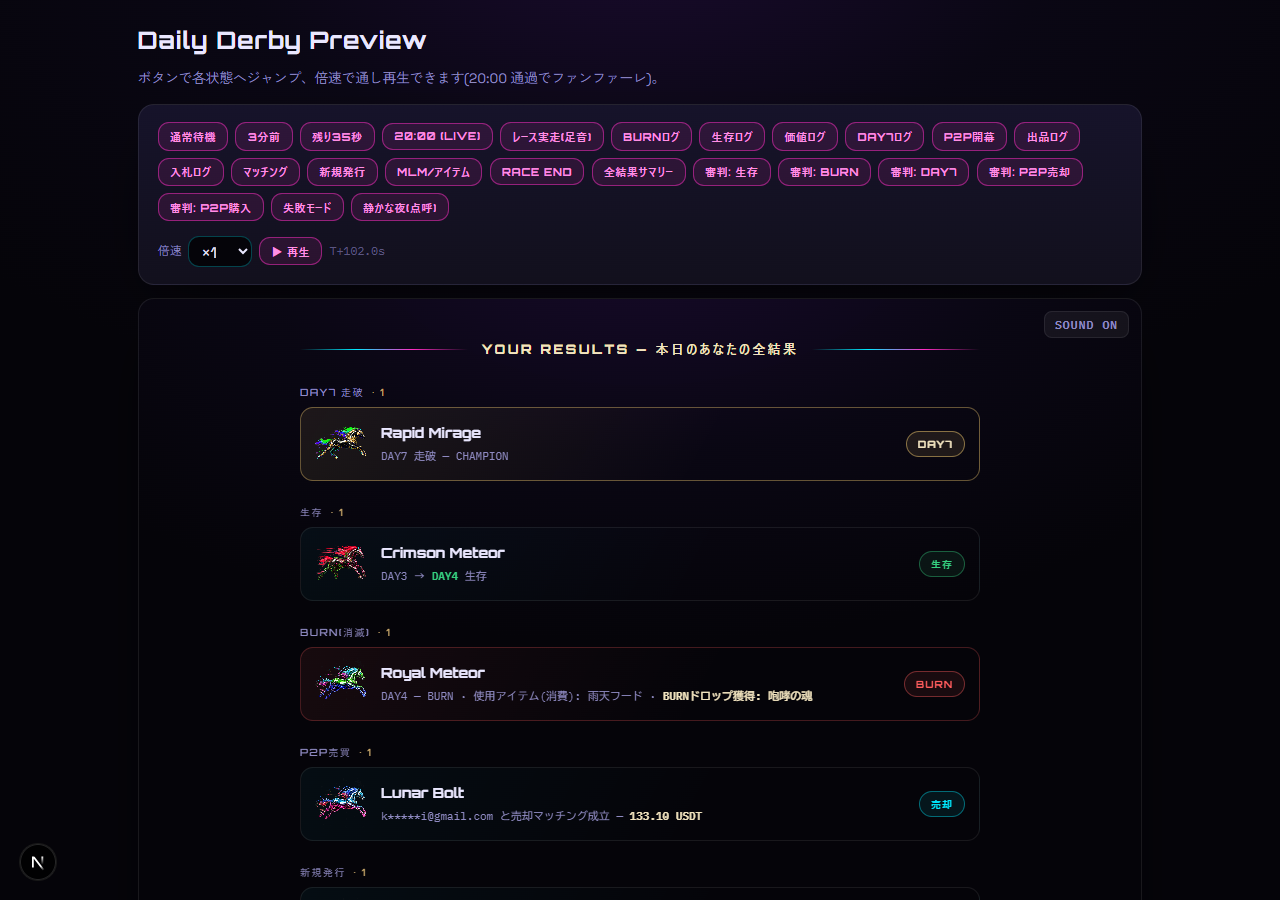
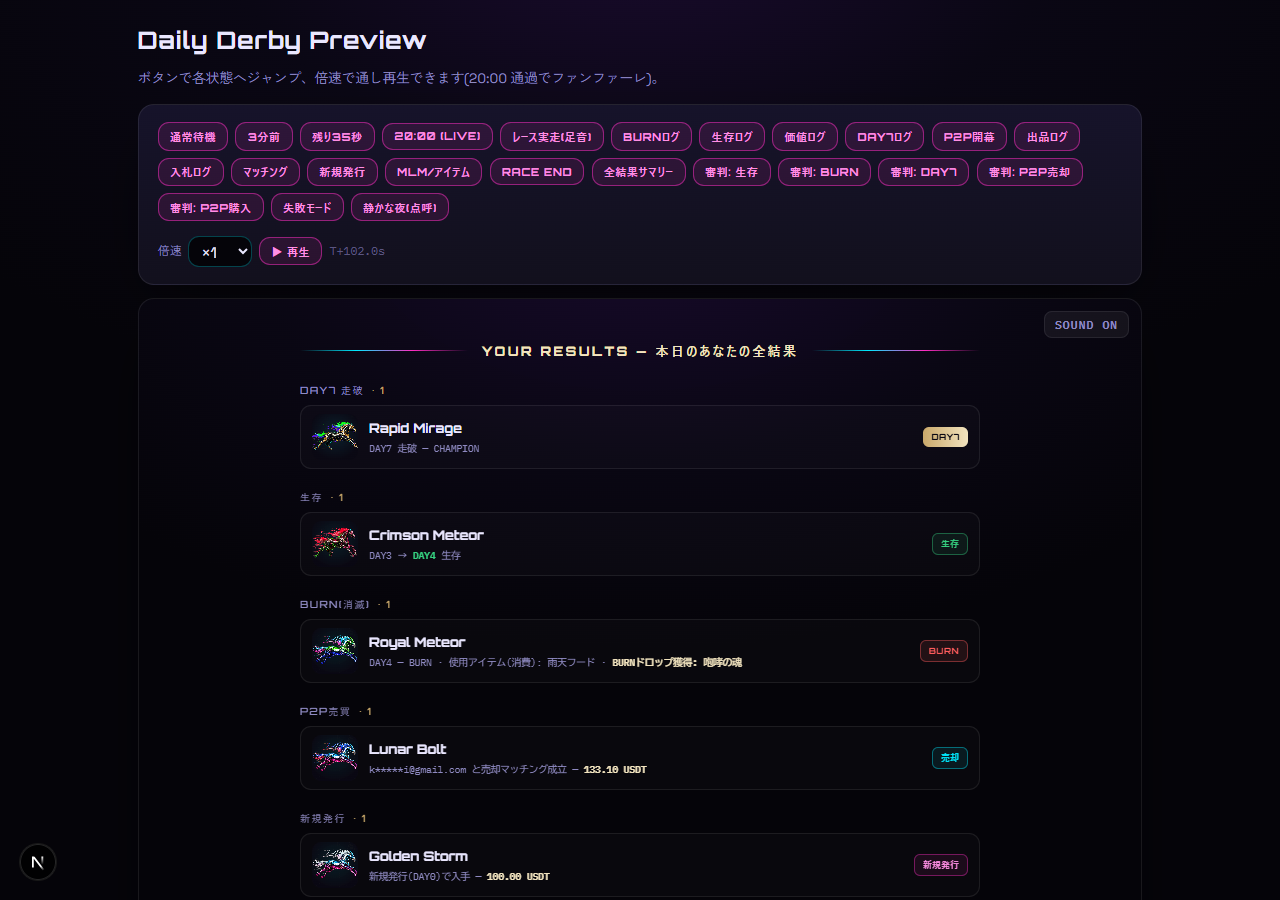
web: race record rows restyled to handoff YOUR RESULTS spec
Match the reference exactly: uniform dense rows (8x11 padding, flat
translucent bg), 46px horse art on a radial backdrop, 8.5px squared
badges, and the DAY7 badge as a filled gold-gradient chip with dark
text. Row tint variants removed (badges carry the color, per
reference). Shared by the show finale and the /races archive.

diff --git a/apps/web/app/races.module.css b/apps/web/app/races.module.css
@@ -132,31 +132,32 @@
 .recNavBtn:disabled { color: var(--faint); border-color: var(--border); background: transparent; cursor: default; }
 .recSelect { font-family: var(--font-display); font-size: 12px; font-weight: 700; color: var(--text);
   border: 1px solid var(--border); border-radius: 10px; padding: 6px 10px; background: var(--panel); }
-.recList { display: flex; flex-direction: column; gap: 9px; }
-.recRow { display: flex; align-items: center; gap: 14px; border: 1px solid var(--border); border-radius: 13px;
-  padding: 10px 14px; background: linear-gradient(120deg, rgba(0, 234, 255, 0.04), transparent 60%); }
-.recBurn { background: linear-gradient(120deg, rgba(255, 92, 92, 0.07), transparent 60%);
-  border-color: rgba(255, 92, 92, 0.25); }
-.recDay7 { background: linear-gradient(120deg, rgba(240, 200, 110, 0.09), transparent 60%);
-  border-color: rgba(240, 200, 110, 0.4); }
-.recArt { width: 52px; height: 52px; border-radius: 12px; flex-shrink: 0; }
+/* 行の様式はハンドオフ(handoff-derby-show の YOUR RESULTS)準拠:
+   一様な行+46pxアート+8.5pxバッジ、DAY7だけ金塗りチップ。 */
+.recList { display: flex; flex-direction: column; gap: 2px; }
+.recRow { display: flex; align-items: center; gap: 11px; border: 1px solid var(--border); border-radius: 11px;
+  padding: 8px 11px; background: rgba(255, 255, 255, 0.015); }
+.recArt { width: 46px; height: 46px; border-radius: 9px; flex-shrink: 0; overflow: hidden;
+  background: radial-gradient(80% 78% at 50% 42%, rgba(0, 234, 255, 0.1), rgba(10, 8, 19, 0.92) 74%); }
 .recBody { flex: 1; min-width: 0; }
-.recName { font-family: var(--font-display); font-weight: 700; font-size: 14px; color: var(--text); }
-.recSub { font-family: var(--font-mono); font-size: 11px; color: var(--muted); margin-top: 3px; line-height: 1.6;
-  overflow-wrap: anywhere; }
+.recName { font-family: var(--font-display); font-weight: 700; font-size: 13px; color: var(--text);
+  white-space: nowrap; overflow: hidden; text-overflow: ellipsis; }
+.recSub { font-family: var(--font-mono); font-size: 9.5px; color: var(--muted); margin-top: 2px; line-height: 1.6;
+  overflow-wrap: anywhere; white-space: normal; }
 .recGood { color: var(--good); }
 .recGold { color: var(--gold-bright, #f0d9a8); }
-.recBadge { font-family: var(--font-display); font-size: 10px; font-weight: 700; letter-spacing: 0.1em;
-  border: 1px solid var(--border); border-radius: 999px; padding: 4px 11px; white-space: nowrap; }
-.recBadgeGood { color: var(--good); border-color: rgba(53, 208, 127, 0.4); background: rgba(53, 208, 127, 0.08); }
-.recBadgeBad { color: var(--bad); border-color: rgba(255, 92, 92, 0.4); background: rgba(255, 92, 92, 0.08); }
-.recBadgeGold { color: var(--gold-bright, #f0d9a8); border-color: rgba(240, 200, 110, 0.5); background: rgba(240, 200, 110, 0.1); }
-.recBadgeCyan { color: var(--cyan); border-color: rgba(0, 234, 255, 0.4); background: rgba(0, 234, 255, 0.08); }
-.recBadgeMint { color: var(--magenta-soft); border-color: rgba(255, 45, 196, 0.4); background: rgba(255, 45, 196, 0.07); }
+.recBadge { font-family: var(--font-display); font-size: 8.5px; font-weight: 700; letter-spacing: 0.06em;
+  border-radius: 6px; padding: 3px 8px; white-space: nowrap; }
+.recBadgeGood { color: var(--good); border: 1px solid rgba(53, 208, 127, 0.4); background: rgba(53, 208, 127, 0.08); }
+.recBadgeBad { color: var(--bad); border: 1px solid rgba(255, 92, 92, 0.4); background: rgba(255, 92, 92, 0.1); }
+.recBadgeGold { color: #0a0813; border: none;
+  background: linear-gradient(92deg, var(--gold, #c9a86a), var(--gold-bright, #f2e4bf)); }
+.recBadgeCyan { color: var(--cyan); border: 1px solid rgba(0, 234, 255, 0.4); background: rgba(0, 234, 255, 0.08); }
+.recBadgeMint { color: var(--magenta-soft); border: 1px solid rgba(255, 45, 196, 0.4); background: rgba(255, 45, 196, 0.07); }
 
 /* グループ見出し(SHOW REDESIGN ⑥: DAY7走破·n / 生存·n / BURN·n / P2P売買·n / 新規発行·n) */
-.recGroup { margin-bottom: 4px; }
+.recGroup { margin-bottom: 12px; }
 .recGroupK { font-family: var(--font-display); font-size: 10px; letter-spacing: 0.14em; color: var(--muted);
-  margin: 4px 0 7px; display: flex; align-items: center; gap: 8px; }
+  margin: 0 0 7px; display: flex; align-items: center; gap: 8px; }
 .recGroupN { color: var(--gold, #c9a86a); }
 .recGroup .recRow { margin-bottom: 6px; }

diff --git a/apps/web/components/daily-derby/NightResultsList.tsx b/apps/web/components/daily-derby/NightResultsList.tsx
@@ -44,7 +44,7 @@ export function NightResultsList({ results }: { results: DerbyNightResults }) {
     <div className={s.recList}>
       <Group label="DAY7 走破" count={day7.length}>
       {day7.map((h) => (
-        <div key={`d7:${h.name}`} className={`${s.recRow} ${s.recDay7}`}>
+        <div key={`d7:${h.name}`} className={s.recRow}>
           <HorseThumb dna={h.dna_hash} name={h.name} />
           <div className={s.recBody}>
             <div className={s.recName}>{h.name}</div>
@@ -70,7 +70,7 @@ export function NightResultsList({ results }: { results: DerbyNightResults }) {
       </Group>
       <Group label="BURN(消滅)" count={results.burned.length}>
       {results.burned.map((h) => (
-        <div key={`bu:${h.name}`} className={`${s.recRow} ${s.recBurn}`}>
+        <div key={`bu:${h.name}`} className={s.recRow}>
           <HorseThumb dna={h.dna_hash} name={h.name} />
           <div className={s.recBody}>
             <div className={s.recName}>{h.name}</div>